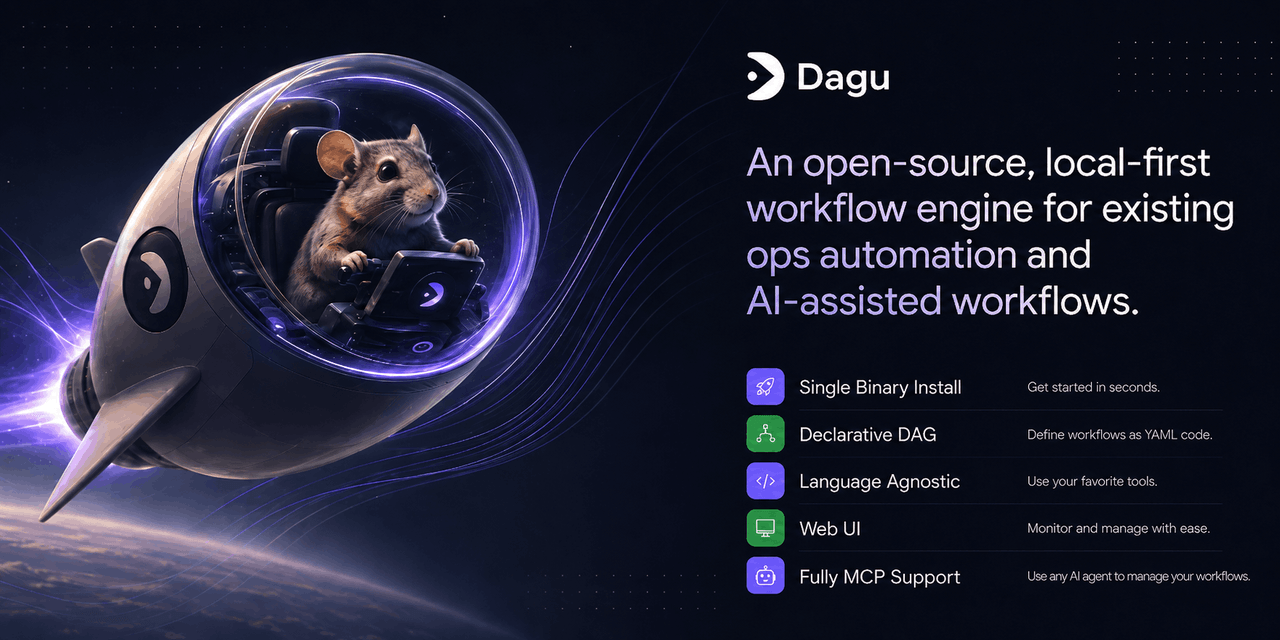
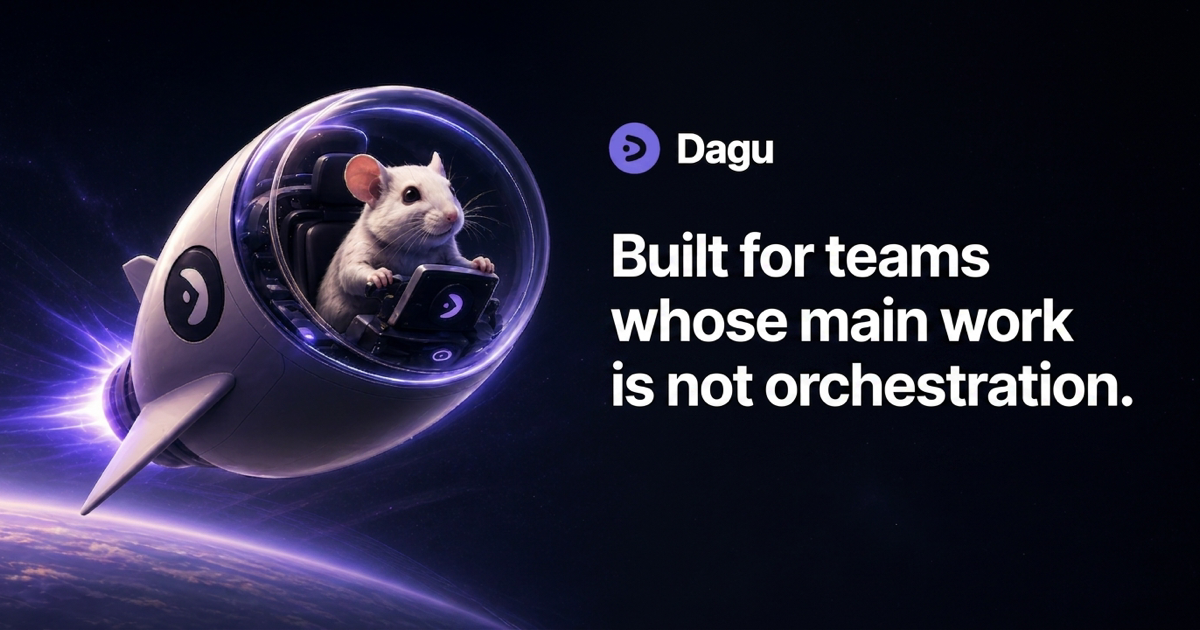
docs: reposition README and brand images around local-first orchestration
New headline "Local-first orchestration that just works" with the
separation principle up front: declarative YAML holds the structure,
business logic stays in scripts, containers, and agents. Adds the
whole-idea section, a named cron/Airflow/Temporal comparison, a verified
agent-review example with an approval gate, and refreshed hero and
social-preview images carrying the new tagline.

diff --git a/README.md b/README.md
@@ -1,6 +1,6 @@
 <div align="center">
   <a href="https://dagu.sh">
-    <img src="./assets/images/hero-logo.png" width="720" alt="Dagu: turn scripts into reliable workflows">
+    <img src="./assets/images/hero-logo.png" width="720" alt="Dagu: built for teams whose main work is not orchestration">
   </a>
   <p>
     <a href="https://docs.dagu.sh">Docs</a> ·
@@ -13,13 +13,41 @@
 
 # Dagu
 
-Dagu turns scripts and commands into reliable YAML workflows. It adds schedules, dependencies, retries, approvals, logs, and a Web UI in one open-source binary. You do not need an external database or message broker.
+Local-first orchestration that just works. Define the workflow in declarative YAML; one open-source binary runs it with schedules, dependencies, retries, approvals, logs, and a Web UI. State lives in local files. No external database, no message broker, no framework.
 
-## Quick start
+Your business logic stays where it is: scripts, containers, and AI agents in any language. The workflow file points at them. No decorators, no SDK, no rewrite. The same engine runs AI: coding agents as steps, LLM calls as steps, and a human approval gate before anything ships.
 
-### 1. Install
+## The whole idea
 
-On macOS or Linux:
+Your repo already has the logic:
+
+```text
+scripts/extract.py
+scripts/build-report.sh
+```
+
+Add one file that holds only the structure:
+
+```yaml
+schedule: "0 2 * * *"
+
+steps:
+  - id: extract
+    run: python scripts/extract.py
+    retry_policy:
+      limit: 3
+      interval_sec: 30
+
+  - id: report
+    run: ./scripts/build-report.sh
+    depends: extract
+```
+
+That is the entire integration. No imports, no decorators, nothing rewritten. Delete the YAML and your scripts still run. Keep it, and every run gets a dependency graph, retries, per-step logs, history, and a Web UI.
+
+## Run it
+
+Install on macOS or Linux:
 
 ```sh
 curl -fsSL https://raw.githubusercontent.com/dagucloud/dagu/main/scripts/installer.sh | bash
@@ -31,58 +59,81 @@ On Windows, run this in PowerShell:
 irm https://raw.githubusercontent.com/dagucloud/dagu/main/scripts/installer.ps1 | iex
 ```
 
-The installers can add Dagu to `PATH`, set up a background service, and create the first admin account. See the [Windows installation guide](https://docs.dagu.sh/getting-started/installation/windows) for service and manual installation options.
+Prefer a pinned version or a different method? See [releases](https://github.com/dagucloud/dagu/releases) and [all installation options](https://docs.dagu.sh/getting-started/installation/) for Docker, Homebrew, npm, Kubernetes, and manual installs.
 
-Prefer Docker? Start the Web UI with the [official image](https://github.com/dagucloud/dagu/pkgs/container/dagu):
-
-```sh
-docker run --rm -p 8080:8080 -v dagu-data:/var/lib/dagu ghcr.io/dagucloud/dagu:latest dagu start-all
-```
-
-Open <http://localhost:8080>. The named volume keeps workflows, logs, history, and settings between runs. See the [Docker guide](https://docs.dagu.sh/getting-started/installation/docker) for Docker Compose, image tags, and host workflow mounts.
-
-The native-install quickstart continues below. For Homebrew, npm, Kubernetes, and manual options, see [all installation methods](https://docs.dagu.sh/getting-started/installation/).
-
-### 2. Run your first workflow
-
-Save this as `hello.yaml`:
-
-```yaml
-steps:
-  - id: hello
-    run: echo "Hello from Dagu!"
-  - id: done
-    run: echo "Workflow finished"
-    depends: hello
-```
-
-Run it:
-
-```sh
-dagu start hello.yaml
-```
-
-### 3. Open the Web UI
-
-Start the Web UI in the same directory:
+Start the scheduler and Web UI in the directory with your YAML:
 
 ```sh
 dagu start-all --dags .
 ```
 
-Open <http://localhost:8080> to see the run, step logs, and history. The [full quickstart](https://docs.dagu.sh/getting-started/quickstart) also covers validation, expected output, and next steps.
+Open <http://localhost:8080> to watch runs, read step logs, and browse history. Running Dagu as a persistent or shared service? Review [server configuration](https://docs.dagu.sh/server-admin/configuration) and [authentication](https://docs.dagu.sh/server-admin/authentication/) before exposing it beyond localhost.
 
-Running Dagu as a persistent or shared service? Review [server configuration](https://docs.dagu.sh/server-admin/configuration) and [authentication](https://docs.dagu.sh/server-admin/authentication/) before exposing it beyond localhost.
+## Why not cron, Airflow, or Temporal
+
+- cron runs commands, but there are no dependencies, retries, or history.
+- Airflow orchestrates, but you operate a platform (scheduler, metadata database, workers, a Python environment), and your jobs become framework code.
+- Temporal gives durable execution, but your business logic moves into its SDK and programming model.
+
+Dagu's position: workflow structure is configuration, not code. It belongs in a file next to your scripts, and the engine that runs it should be one process you can ignore:
+
+```text
+Traditional orchestrator              Dagu
+
+Web server                            dagu start-all
+Scheduler                             ├── Web UI
+Workers                               ├── Scheduler
+Metadata database                     ├── Executor
+Message broker                        └── Local file-backed state
+Python environment + plugins
+Upgrades with schema migrations       Upgrade: replace one binary
+```
+
+Everything on the right is one process that idles under 100 MB of RAM. If you run Airflow to schedule what is ultimately a list of shell commands and containers, this is the same orchestration without the platform underneath it.
+
+All of the orchestration. None of the platform.
+
+## Give a step to an AI agent
+
+Steps are not limited to shell commands. This workflow has a coding agent review the latest commit every night, and a human approves before the result goes anywhere:
+
+```yaml
+schedule: "0 2 * * *"
+working_dir: .
+
+secrets:
+  - name: OPENROUTER_API_KEY
+    provider: env
+    key: OPENROUTER_API_KEY
+
+steps:
+  - id: review
+    action: harness.run
+    with:
+      provider: pi
+      model: openrouter/deepseek/deepseek-v4-flash
+      tools: read,bash
+      prompt: |
+        Review the most recent commit in this repository.
+        Reply with: what changed, one risk, a verdict.
+    output: REVIEW
+
+  - id: approve
+    action: human.task
+    with:
+      prompt: Publish this review?
+    depends: review
+
+  - id: publish
+    run: echo "$REVIEW"
+    depends: approve
+```
+
+To try it, install the [Pi coding agent](https://pi.dev) (`npm install -g --ignore-scripts @earendil-works/pi-coding-agent`), export an `OPENROUTER_API_KEY`, and drop the file into your DAGs directory. When the review is ready, the run pauses; open it in the Web UI and click Approve. The approved text prints in the `publish` step's log, and the whole exchange stays in the run history.
+
+The same separation applies to AI: the agent is a CLI process, wired in by the file, not by an agent-framework SDK. The agent step calls whichever model provider you configure; this example sends the prompt to OpenRouter. Local models work through `provider: local`. Approvals and human tasks are part of the open-source engine; SSO, RBAC, and audit logs are in the [licensed tier](https://dagu.sh/pricing#self-host).
 
 If Dagu is useful, click **Star** at the top of this page. It helps other developers find the project.
-
-## What Dagu gives you
-
-- Keep your current scripts, commands, containers, and tools.
-- Store readable workflow definitions in Git.
-- Add dependencies, schedules, retries, timeouts, and approvals in YAML.
-- Inspect live status, logs, and previous runs in the built-in Web UI.
-- Start on one machine, then add queues or distributed workers if the workload grows.
 
 ## See it in action
 
@@ -100,84 +151,34 @@ Click the image to watch the short product walkthrough.
 
 You can also open the [live demo](https://dagu-demo-f5e33d0e.dagu.sh) and sign in with username `demouser` and password `demouser`.
 
-## Why Dagu
+From the GitHub community:
 
-Cron is easy to start but gives you little visibility once jobs depend on each other. Larger orchestrators solve that problem by adding services and a framework. Dagu keeps the operating model small:
+> I started out down the Temporal path. Temporal is powerful, but if all you want is to dynamically chain agents, scripts, data processing, and ops tasks together, the whole stack can feel a bit heavy. Then I came across Dagu [...] It runs as a single binary, workflows are written in YAML, everything lives in local files, it ships with a web UI, and there's no extra DB or broker to stand up. [...] A nice surprise was harness.run, which lets you plug external coding agent CLIs straight into a workflow.
 
-```text
-Traditional orchestrator              Dagu
+## What Dagu gives you
 
-Web server                            dagu start-all
-Scheduler                             ├── Web UI
-Workers                               ├── Scheduler
-Database                              ├── Executor
-Message broker                        └── Local file-backed state
-Language runtime
-```
+- Orchestration that is not a second job: one binary, local file state, upgrades by replacing the binary.
+- Declarative YAML, reviewed and diffed in Git like any other file.
+- No decorators, no annotations, no framework imports: logic stays in your languages.
+- Structure separate from logic: the file declares order, retries, and approvals; your scripts do the work.
+- Run AI where you run cron: agent CLI steps (Claude Code, Codex, Copilot, Pi, OpenCode), LLM steps, and human approval gates.
+- Inspect live status, logs, and previous runs in the built-in Web UI.
+- Start on one machine, then add queues or distributed workers if the workload grows.
 
-The workflow calls the software you already use. It does not require you to move that code into a Dagu-specific framework.
+## A step can be
 
-## A practical workflow
+| | | |
+|---|---|---|
+| A shell command | A Docker container | A Kubernetes Job |
+| An SSH command | An HTTP request | A SQL query |
+| Another DAG | A fan-out over a list | An LLM call (`chat.completion`) |
+| A coding agent (`harness.run`) | A human approval (`human.task`) | One of 50+ built-in actions |
 
-This example runs a nightly report, retries the data step, and keeps the order explicit:
-
-```yaml
-schedule: "0 2 * * *"
-
-steps:
-  - id: extract
-    run: python extract.py
-    retry_policy:
-      limit: 3
-      interval_sec: 30
-
-  - id: report
-    run: ./build-report.sh
-    depends: extract
-
-  - id: archive
-    run: tar -czf report.tgz report/
-    depends: report
-```
-
-Dagu can also run containers, Kubernetes Jobs, SSH commands, SQL, HTTP requests, human tasks, and reusable actions. Browse the [workflow examples](https://docs.dagu.sh/writing-workflows/examples) or the [YAML reference](https://docs.dagu.sh/writing-workflows/yaml-specification) when you need them.
-
-## Nested workflows
-
-A step can run another DAG. Sub-DAGs can live in the same file after `---`, and `parallel` fans one sub-DAG out over a list of items. This example works as-is:
-
-```yaml
-steps:
-  - id: check
-    action: dag.run
-    with:
-      dag: probe
-      params:
-        url: ${ITEM}
-    parallel:
-      items:
-        - https://example.com
-        - https://example.org
-        - https://example.net
-      max_concurrent: 2
-
----
-name: probe
-params:
-  - name: url
-    type: string
-steps:
-  - id: fetch
-    run: curl -fsS -o /dev/null -w '%{http_code}\n' "${params.url}"
-```
-
-Each URL becomes its own child run with separate logs, status, and retries. The same mechanism composes larger systems: shared DAGs in their own files, called from many parents.
-
-See [Sub-DAGs](https://docs.dagu.sh/writing-workflows/sub-dags).
+Browse the [workflow examples](https://docs.dagu.sh/writing-workflows/examples) or the [YAML reference](https://docs.dagu.sh/writing-workflows/yaml-specification) when you need them.
 
 ## LLM-directed workflows
 
-With `type: controller`, steps become a catalog and `tasks` state the goals; an LLM decides which step runs next until the goals are met. This example triages the machine it runs on, and works as-is with an OpenRouter API key:
+With `type: controller`, steps become a catalog and `tasks` state the goals; an LLM decides which step runs next until the goals are met. The controller selects only from the steps you declare, records every decision, and runs under the same retries, logs, and controls as any other workflow. This example triages the machine it runs on, and works as-is with an OpenRouter API key:
 
 ```yaml
 type: controller
@@ -219,11 +220,44 @@ tasks:
       written. Inspect processes only if disk or load looks unhealthy.
 ```
 
-There is no fixed order: the controller picks probes, digs deeper only when something looks off, and ends by writing the summary. Put it on a `schedule` and it becomes a nightly check that explains itself.
+There is no fixed order: the controller picks probes, digs deeper only when something looks off, and ends by writing the summary. On a `schedule`, every decision it made is there in the run's timeline the next morning.
 
 The `summarize` step uses `chat.completion`: a plain LLM call that works in any workflow, shares the workflow's `llm` config, and supports tool use.
 
 See [Controller Workflows](https://docs.dagu.sh/writing-workflows/controller).
+
+## Nested workflows
+
+A step can run another DAG. Sub-DAGs can live in the same file after `---`, and `parallel` fans one sub-DAG out over a list of items. This example works as-is:
+
+```yaml
+steps:
+  - id: check
+    action: dag.run
+    with:
+      dag: probe
+      params:
+        url: ${ITEM}
+    parallel:
+      items:
+        - https://example.com
+        - https://example.org
+        - https://example.net
+      max_concurrent: 2
+
+---
+name: probe
+params:
+  - name: url
+    type: string
+steps:
+  - id: fetch
+    run: curl -fsS -o /dev/null -w '%{http_code}\n' "${params.url}"
+```
+
+Each URL becomes its own child run with separate logs, status, and retries. The same mechanism composes larger systems: shared DAGs in their own files, called from many parents.
+
+See [Sub-DAGs](https://docs.dagu.sh/writing-workflows/sub-dags).
 
 ## Operate Dagu from your AI tools
 
@@ -242,6 +276,7 @@ See the [MCP guide](https://docs.dagu.sh/mcp/quickstart).
 ## Common uses
 
 - Replace fragile cron chains while keeping the underlying scripts.
+- Run coding agents on schedules with approval gates and full logs.
 - Run ETL, reporting, backup, media, and infrastructure jobs.
 - Coordinate Docker, Kubernetes, SSH, SQL, and HTTP work in one graph.
 - Give operators a controlled way to run approved internal tasks.
@@ -263,6 +298,7 @@ The same YAML works across these models. See [deployment models](https://docs.da
 | Topic | Documentation |
 |---|---|
 | Install and first run | [Quickstart](https://docs.dagu.sh/getting-started/quickstart) |
+| Your first AI workflow | [AI quickstart](https://docs.dagu.sh/getting-started/quickstart-ai) |
 | Install on Windows | [PowerShell, Windows service, and manual install](https://docs.dagu.sh/getting-started/installation/windows) |
 | Run with Docker | [Docker, Compose, volumes, and image tags](https://docs.dagu.sh/getting-started/installation/docker) |
 | Configure a server | [Configuration files, environment variables, and precedence](https://docs.dagu.sh/server-admin/configuration) |
